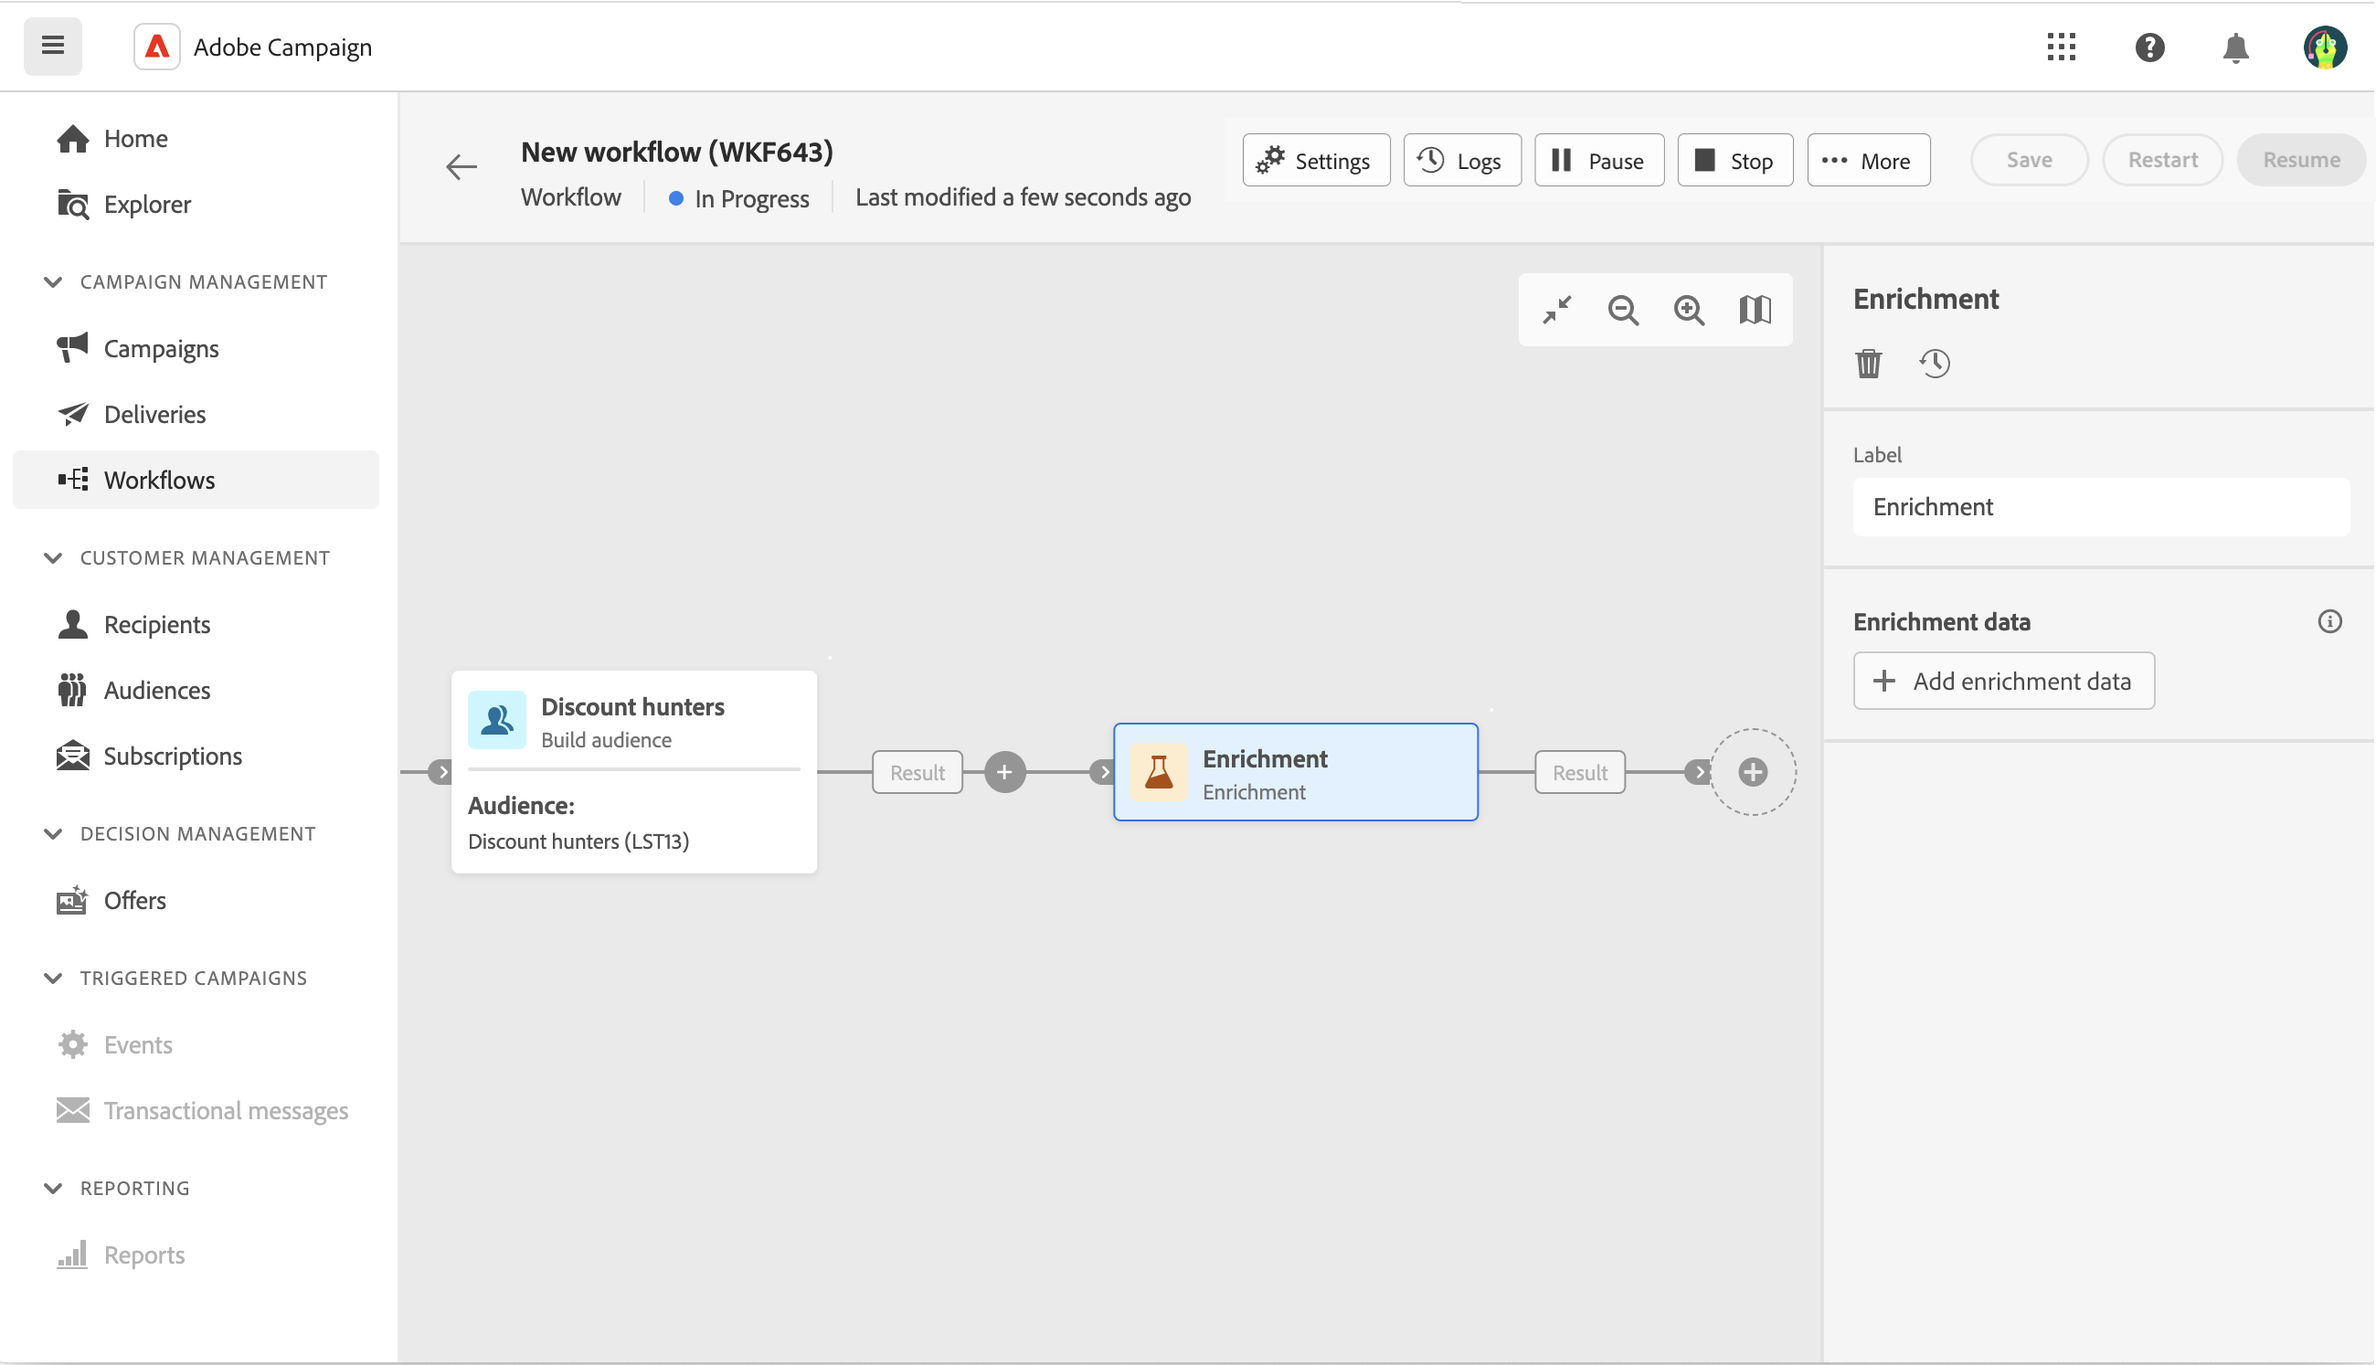
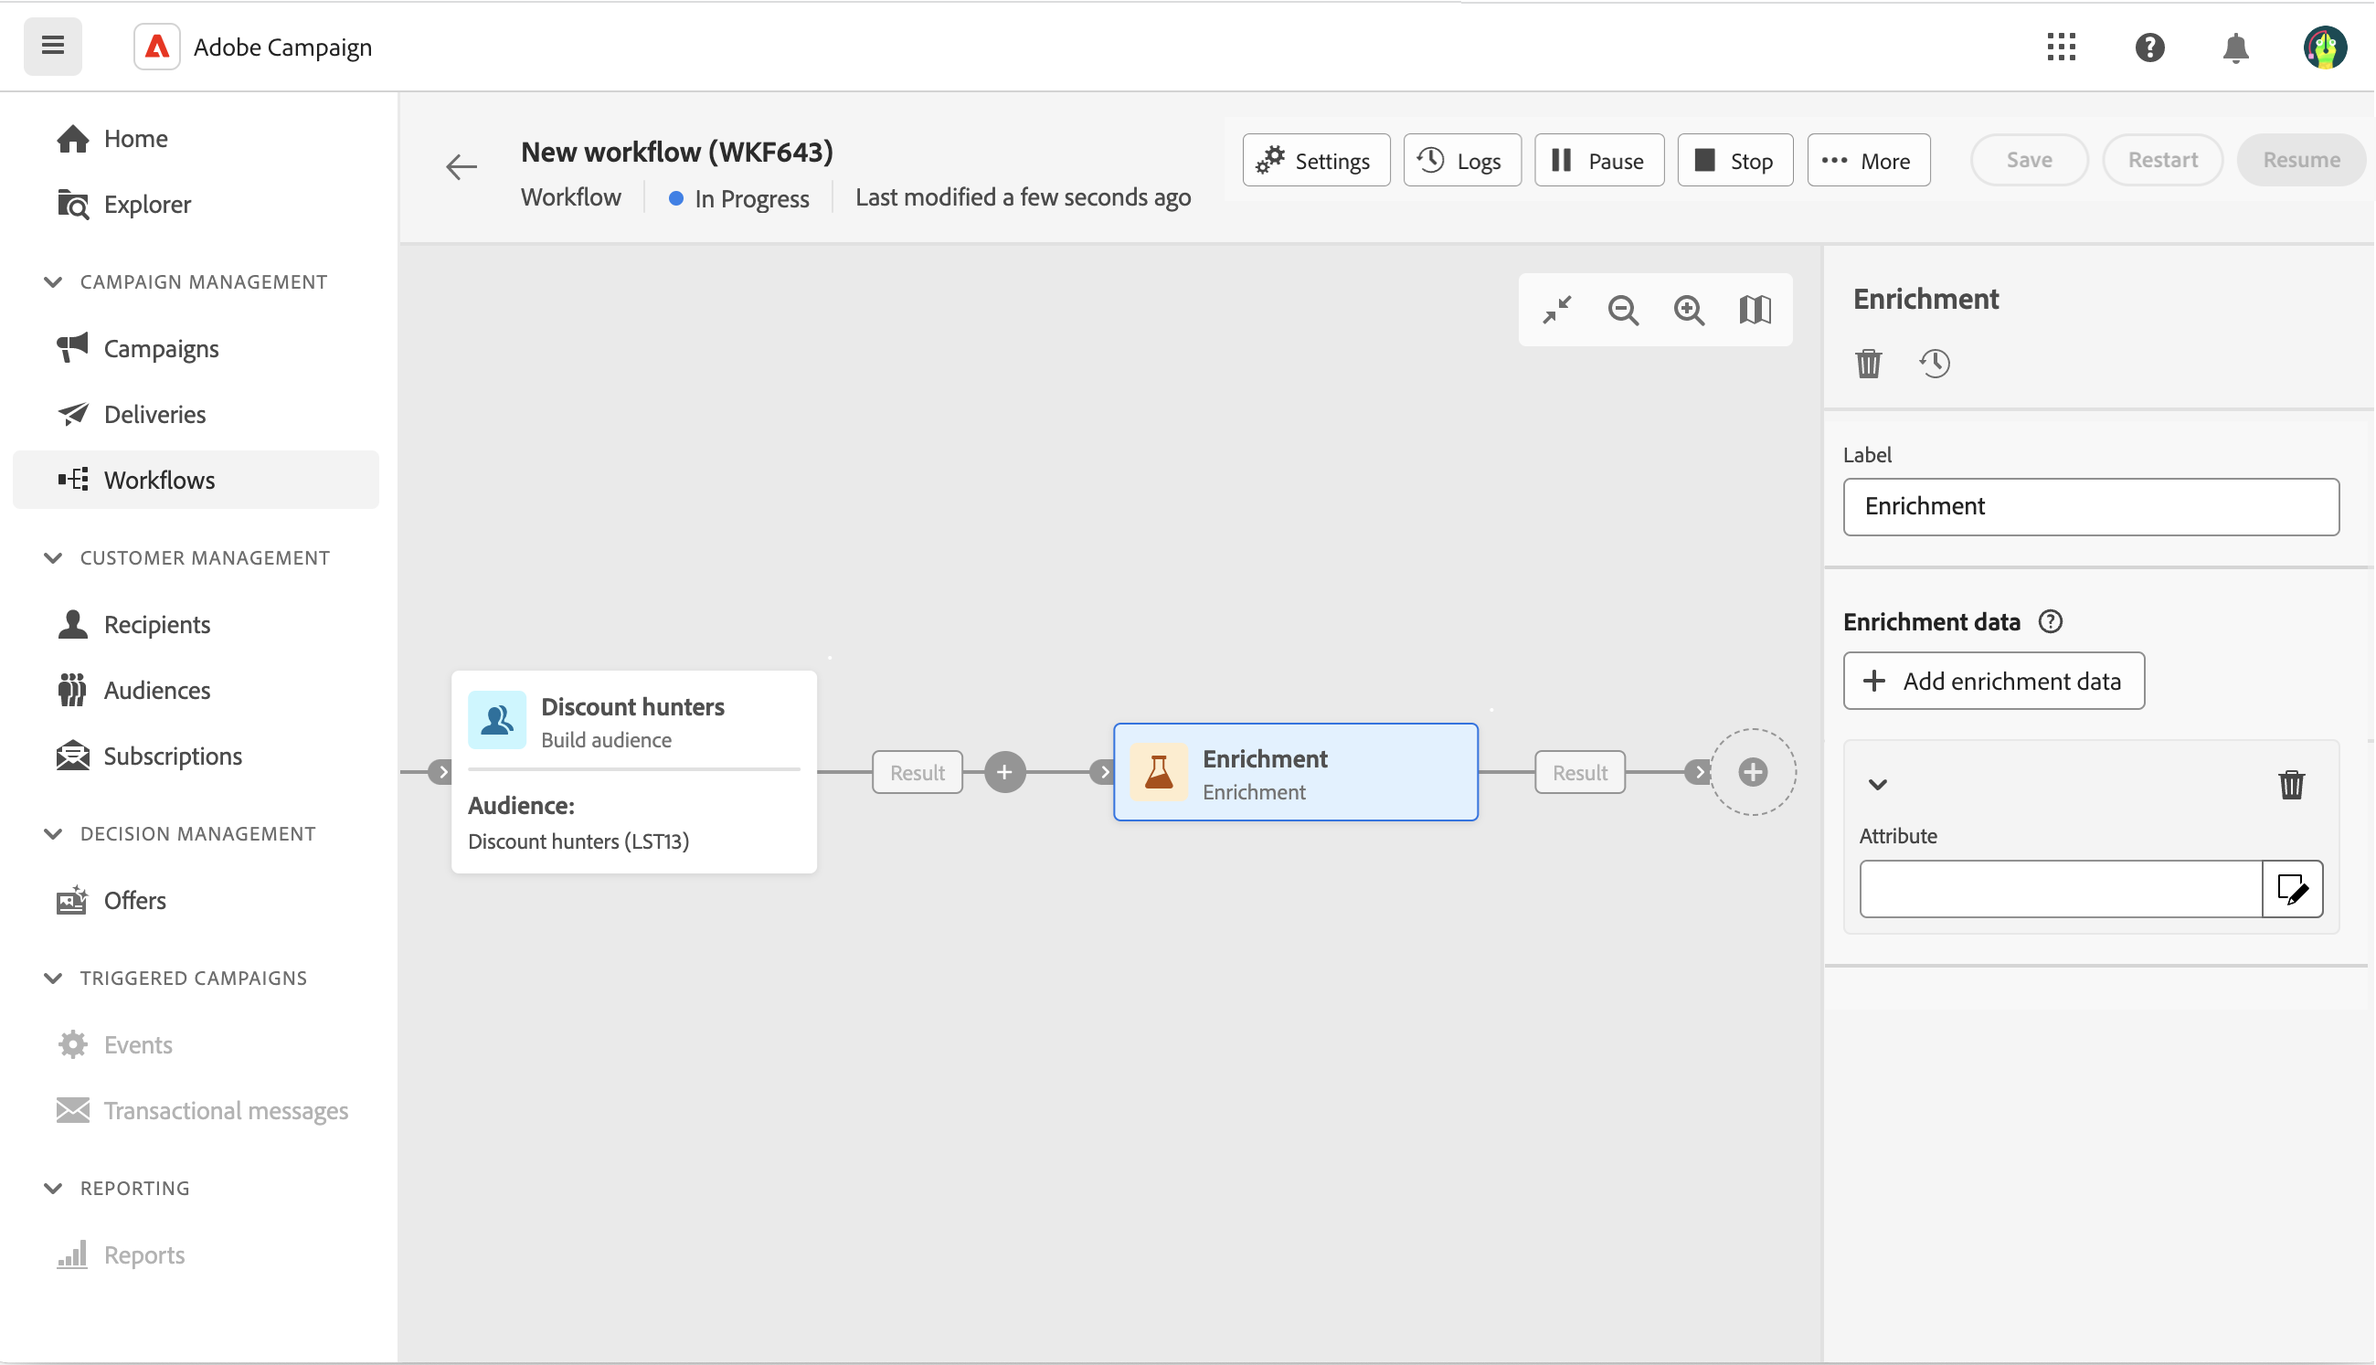
updates

diff --git a/help/v8/workflows/activities/build-audience.md b/help/v8/workflows/activities/build-audience.md
@@ -2,7 +2,7 @@
 audience: end-user
 title: Use the Build audience workflow activity
 description: Learn how to use the Build audience workflow activity
-badge: label="Beta"
+badge: label="Limited Availability"
 exl-id: c07bb025-51b7-428e-ba00-cd552f0db9d4
 ---
 # Build audience {#build-audience}
@@ -12,14 +12,13 @@ exl-id: c07bb025-51b7-428e-ba00-cd552f0db9d4
 >title="Build audience activity"
 >abstract="The **Build audience** activity allows you to define the audience that will enter the workflow. When sending messages in the context of a workflow, the message audience is not defined in the channel activity, but in the **Build audience** activity."
 
-
 The **Build audience** activity is a **Targeting** activity. This activity allows you to define the audience that will enter the workflow. When sending messages in the context of a workflow, the message audience is not defined in the channel activity, but in the **Build audience** activity.
 
 To define the audience population, you can:
 
 * Select an existing audience, created as a list in the client console.
 * Select an Adobe Experience Platform audience. 
-* Build a new audience with the rule builder by defining and combining filtering criteria.
+* Build a new audience with the query modeler builder by defining and combining filtering criteria.
 
 >[!NOTE]
 >
@@ -36,7 +35,6 @@ The **Build audience** activity can be placed at the beginning of the workflow o
 >title="Select the targeting dimension"
 >abstract="The targeting dimension lets you define the population targeted by the operation: recipients, contract beneficiaries, operator, subscribers, etc. By default, the target is selected from the recipients."
 
-
 Follow these steps to configure the **Build audience** activity:
 
 ![](../assets/workflow-audience.png)
@@ -44,23 +42,32 @@ Follow these steps to configure the **Build audience** activity:
 1. Add a **Build audience** activity. 
 1. Define a label.
 1. Define the audience type: **Create your own** or **Read audience**. 
+1. Configure your audience by following the steps detailed in the tabs below.
 
-To create your own query, follow these extra steps:
+>[!BEGINTABS]
+
+>[!TAB Create your own (query)]
+
+To create your own query, follow these steps:
 
 1. Select **Create your own (query)**.
-1. Choose the **Targeting dimension**. The targeting dimension lets you define the population targeted by the operation: recipients, contract beneficiaries, operator, subscribers, etc. By default, the target is selected from the recipients. Learn more about Targeting dimensions in [this section](../../audience/about-recipients.md#targeting-dimensions).
+1. Choose the **Targeting dimension**. The targeting dimension lets you define the population targeted by the operation: recipients, contract beneficiaries, operator, subscribers, etc. By default, the target is selected from the recipients. [Learn more about targeting dimensions](../../audience/about-recipients.md#targeting-dimensions)
 1. Click **Continue**.
-1. Use the rule builder to define your query, the same way you create an audience when designing a new email. Refer to this [section](../../audience/../query/query-modeler-overview.md).
+1. Use the query modeler to define your query, the same way you create an audience when designing a new email. [Learn how to work with the query modeler](../../audience/../query/query-modeler-overview.md)
+
+>[!TAB Read audience]
 
 To select an existing audience, follow these steps:
 
 1. Select **Read audience**.
 1. Click **Continue**.
-1. Select your audience, the same way you use an audience when designing a new email. Refer to this [section](../../audience/add-audience.md).
+1. Select your audience, the same way you use an audience when designing a new delivery. Refer to this [section](../../audience/add-audience.md).
 
 >[!IMPORTANT]
 >
 >If you want to use a **[!UICONTROL Build audience]** activity targeting an Experience Platform audience, you need to add a **[!UICONTROL Change dimension]** activity after it, to ensure that the audience's targeting dimension is set to "Recipient". A workflow example is available at the bottom of this page.
+
+>[!ENDTABS]
 
 ## Examples{#build-audience-examples}
 

diff --git a/help/v8/workflows/activities/channels.md b/help/v8/workflows/activities/channels.md
@@ -2,7 +2,7 @@
 audience: end-user
 title: Use a delivery workflow activity
 description: Learn how to add a delivery workflow activity (Email, Push, SMS)
-badge: label="Beta"
+badge: label="Limited Availability"
 exl-id: 155b40e2-1aa2-4251-bbaa-7e16e36f649e
 ---
 # Email, SMS, Push activities {#channel}
@@ -32,24 +32,20 @@ Start building your workflow with the relevant activities before placing the del
 
 ## Configure the Channel activity {#create-a-delivery-in-a-workflow}
 
-
 >[!CONTEXTUALHELP]
 >id="acw_orchestration_email"
 >title="Email activity"
 >abstract="The Email activity facilitates email sending within your workflow, allowing for both one-time and recurring messages. It serves to automate the process of sending emails to a target calculated within the same workflow. You can combine channel activities into the workflow canvas to create cross-channel workflows that can trigger actions based on customer behavior and data."
-
 
 >[!CONTEXTUALHELP]
 >id="acw_orchestration_sms"
 >title="SMS activity"
 >abstract="The SMS activity facilitates SMS sending within your workflow, allowing for both one-time and recurring messages. It serves to automate the process of sending SMS to a target calculated within the same workflow. You can combine channel activities into the workflow canvas to create cross-channel workflows that can trigger actions based on customer behavior and data."
 
-
 >[!CONTEXTUALHELP]
 >id="acw_orchestration_push_ios"
 >title="Push iOS activity"
 >abstract="The Push iOS activity streamlines the process of sending iOS Push notifications as part of your workflow. It enables the delivery of both one-time and recurring messages, automating the sending iOS Push notifications to a predefined target within the same workflow. You can combine channel activities into the workflow canvas to create cross-channel workflows that can trigger actions based on customer behavior and data."
-
 
 >[!CONTEXTUALHELP]
 >id="acw_orchestration_push_android"
@@ -69,11 +65,11 @@ To set up a delivery in the context of a workflow, follow the steps below:
 
     ![](../assets/delivery-activity-in-wf.png)
    
-    You can select another template from the channel activity configuration left pane. If the previously selected audience is not compatible with the channel, then you cannot select a template. To solve this, update the **Build audience** activity to select an audience with the correct target mapping. Learn more about target mappings in [Adobe Campaign v8 (client console) documentation](https://experienceleague.adobe.com/docs/campaign/campaign-v8/audience/add-profiles/target-mappings.html){target="_blank"}.
+    You can select another template from the channel activity configuration left pane. If the previously selected audience is not compatible with the channel, then you cannot select a template. To solve this, update the **Build audience** activity to select an audience with the correct target mapping. Learn more about target mappings in [Adobe Campaign v8 (client console) documentation](https://experienceleague.adobe.com/docs/campaign/campaign-v8/audience/add-profiles/target-mappings.html){target="_blank"}
 
-1. Click **Create delivery**. Define your message settings and content the same way you create a standalone delivery. You can also schedule and simulate the content. [Learn more](../../msg/gs-messages.md).
+1. Click **Create delivery**. Define your message settings and content the same way you create a standalone delivery. You can also schedule and simulate the content. [Learn more](../../msg/gs-messages.md)
 
-1. Navigate back to your workflow. Choose if you want to continue your workflow **Generate an outbound transition** if you want to add a transition after the channel activity.
+1. Navigate back to your workflow. If you want to continue your workflow, **Generate an outbound transition** to add a transition after the channel activity.
 
 1. Click **Start** to launch your workflow.
 

diff --git a/help/v8/workflows/activities/enrichment.md b/help/v8/workflows/activities/enrichment.md
@@ -2,7 +2,7 @@
 audience: end-user
 title: Use the Enrichment workflow activity
 description: Learn how to use the Enrichment workflow activity
-badge: label="Beta"
+badge: label="Limited Availability"
 exl-id: 02f30090-231f-4880-8cf7-77d57751e824
 ---
 # Enrichment {#enrichment}
@@ -11,7 +11,6 @@ exl-id: 02f30090-231f-4880-8cf7-77d57751e824
 >id="acw_orchestration_enrichment"
 >title="Enrichment activity"
 >abstract="The **Enrichment** activity allows you to enhance the targeted data with additional information from the database. It is commonly used in a workflow after segmentation activities."
-
 
 >[!CONTEXTUALHELP]
 >id="acw_orchestration_enrichment_data"
@@ -29,13 +28,13 @@ Enrichment data can come either:
 
 * **From the same work table** as the one targeted into your workflow:
 
-    *Target a group of customers and add the "Birth date" field to the current work table*
+    *Target a group of customers and add the "Birth date" field to the current work table*.
 
 * **From another work table**:
 
     *Target a group of customers and add the "Amount" and "Type of product" fields coming from the "Purchase" table*.
 
-Once the enrichment data has been added to the workflow, it can then be used in the activities added after the **Enrichment** activity to segment customers into distinct groups based on their behaviors, preferences, and needs, or to create personalized marketing messages and campaigns that are more likely to resonate with your target audience.
+Once the enrichment data has been added to the workflow, it can be used in the activities added after the **Enrichment** activity to segment customers into distinct groups based on their behaviors, preferences, and needs, or to create personalized marketing messages and campaigns that are more likely to resonate with your target audience.
 
 For instance, you can add to the workflow working table information related to customers' purchases and use this data to personalize emails with their latest purchase or the amount spent on these purchases.
 
@@ -45,11 +44,15 @@ Follow these steps to configure the **Enrichment** activity:
 
 1. Add activities such as **Build audience** and **Combine** activities.
 1. Add an **Enrichment** activity.
-1. Click **Add enrichment data**.
+1. Click **Add enrichment data** and select the attribute to use to enrich the data.
 
-![](../assets/workflow-enrichment1.png)
+    You can select two types of enrichment data: a [single enrichment attribute](#single-attribute) from the target dimension, or a [collection link](#collection-link).
 
-You can select two types of enrichment data: a [single enrichment attribute](#single-attribute) from the target dimension, or a [collection link](#collection-link).
+    >[!NOTE]
+    >
+    >The **Edit expression button** in the attribute selection screen allows you to build advanced expressions to select the attribute. [Learn how to work with the expression editor](../../query/expression-editor.md)
+
+    ![](../assets/workflow-enrichment1.png)
 
 ## Single enrichment attribute {#single-attribute}
 
@@ -95,7 +98,7 @@ If you want, for example, to get the average amount of purchases for a customer,
 
 ### Define the filters{#collection-filters}
 
-Here, we define the maximum value for the enrichment attribute. We filter out items that are greater than 100$.
+Here, we define the maximum value for the enrichment attribute. We filter out items that are greater than 100$. [Learn how to work with the query modeler](../../query/query-modeler-overview.md)
 
 1. Click **Edit filters**.
 1. Add the two following filters: **Total amount** exists AND **Total amount** is less than 100. The first one filters NULL values as they would appear as the greatest value.

diff --git a/help/v8/workflows/activities/deduplication.md b/help/v8/workflows/activities/deduplication.md
@@ -2,7 +2,7 @@
 audience: end-user
 title: Use the Deduplication workflow activity
 description: Learn how to use the Deduplication workflow activity
-badge: label="Beta"
+badge: label="Limited Availability"
 exl-id: 8efdc140-6cae-430d-b585-ff581993ff60
 ---
 # Deduplication {#deduplication}
@@ -16,7 +16,6 @@ exl-id: 8efdc140-6cae-430d-b585-ff581993ff60
 >id="acw_orchestration_deduplication"
 >title="Deduplication activity"
 >abstract="The **Deduplication** activity allows you to delete duplicates in the results of the inbound activities. It is mostly used following targeting activities, and before activities that allow the use of targeted data."
-
 
 >[!CONTEXTUALHELP]
 >id="acw_orchestration_deduplication_complement"
@@ -40,7 +39,7 @@ Follow these steps to configure the **Deduplication** activity:
 
 1. In the **Fields to identify duplicates** section, click the **Add attribute** button to specify the fields for which the identical values allow the duplicates to be identified, such as: email address, first name, last name, etc. The order of the fields allows you to specify those to process first.
 
-1. Select the number of unique **Duplicates to keep**. The default value for this field is 1. The value 0 allows you to keep all the duplicates.
+1. In the **Deduplication settings** section, select the number of unique **Duplicates to keep**. The default value for this field is 1. The value 0 allows you to keep all the duplicates.
 
     For example, if records A and B are considered duplicates of record Y, and a record C is considered as a duplicate of record Z:
 

diff --git a/help/v8/workflows/activities/change-dimension.md b/help/v8/workflows/activities/change-dimension.md
@@ -2,7 +2,7 @@
 audience: end-user
 title: Use the Change dimension workflow activity
 description: Learn how to use the Change dimension workflow activity
-badge: label="Beta"
+badge: label="Limited Availability"
 exl-id: 08870946-91c6-4ab0-84de-4d9b968884b3
 ---
 # Change dimension {#change-dimension}

diff --git a/help/v8/reporting/global-reports.md b/help/v8/reporting/global-reports.md
@@ -2,7 +2,7 @@
 audience: end-user
 title: Get started with Global reports
 description: Understand Global reports
-badge: label="Limited availability"
+badge: label="Limited Availability"
 ---
 
 # Get started with global reports {#global-report-gs}

diff --git a/help/v8/reporting/export-reports.md b/help/v8/reporting/export-reports.md
@@ -2,7 +2,7 @@
 audience: end-user
 title: Export your reports
 description: Understand how to export your reports
-badge: label="Limited availability"
+badge: label="Limited Availability"
 ---
 
 # Export your reports {#export-reports}
